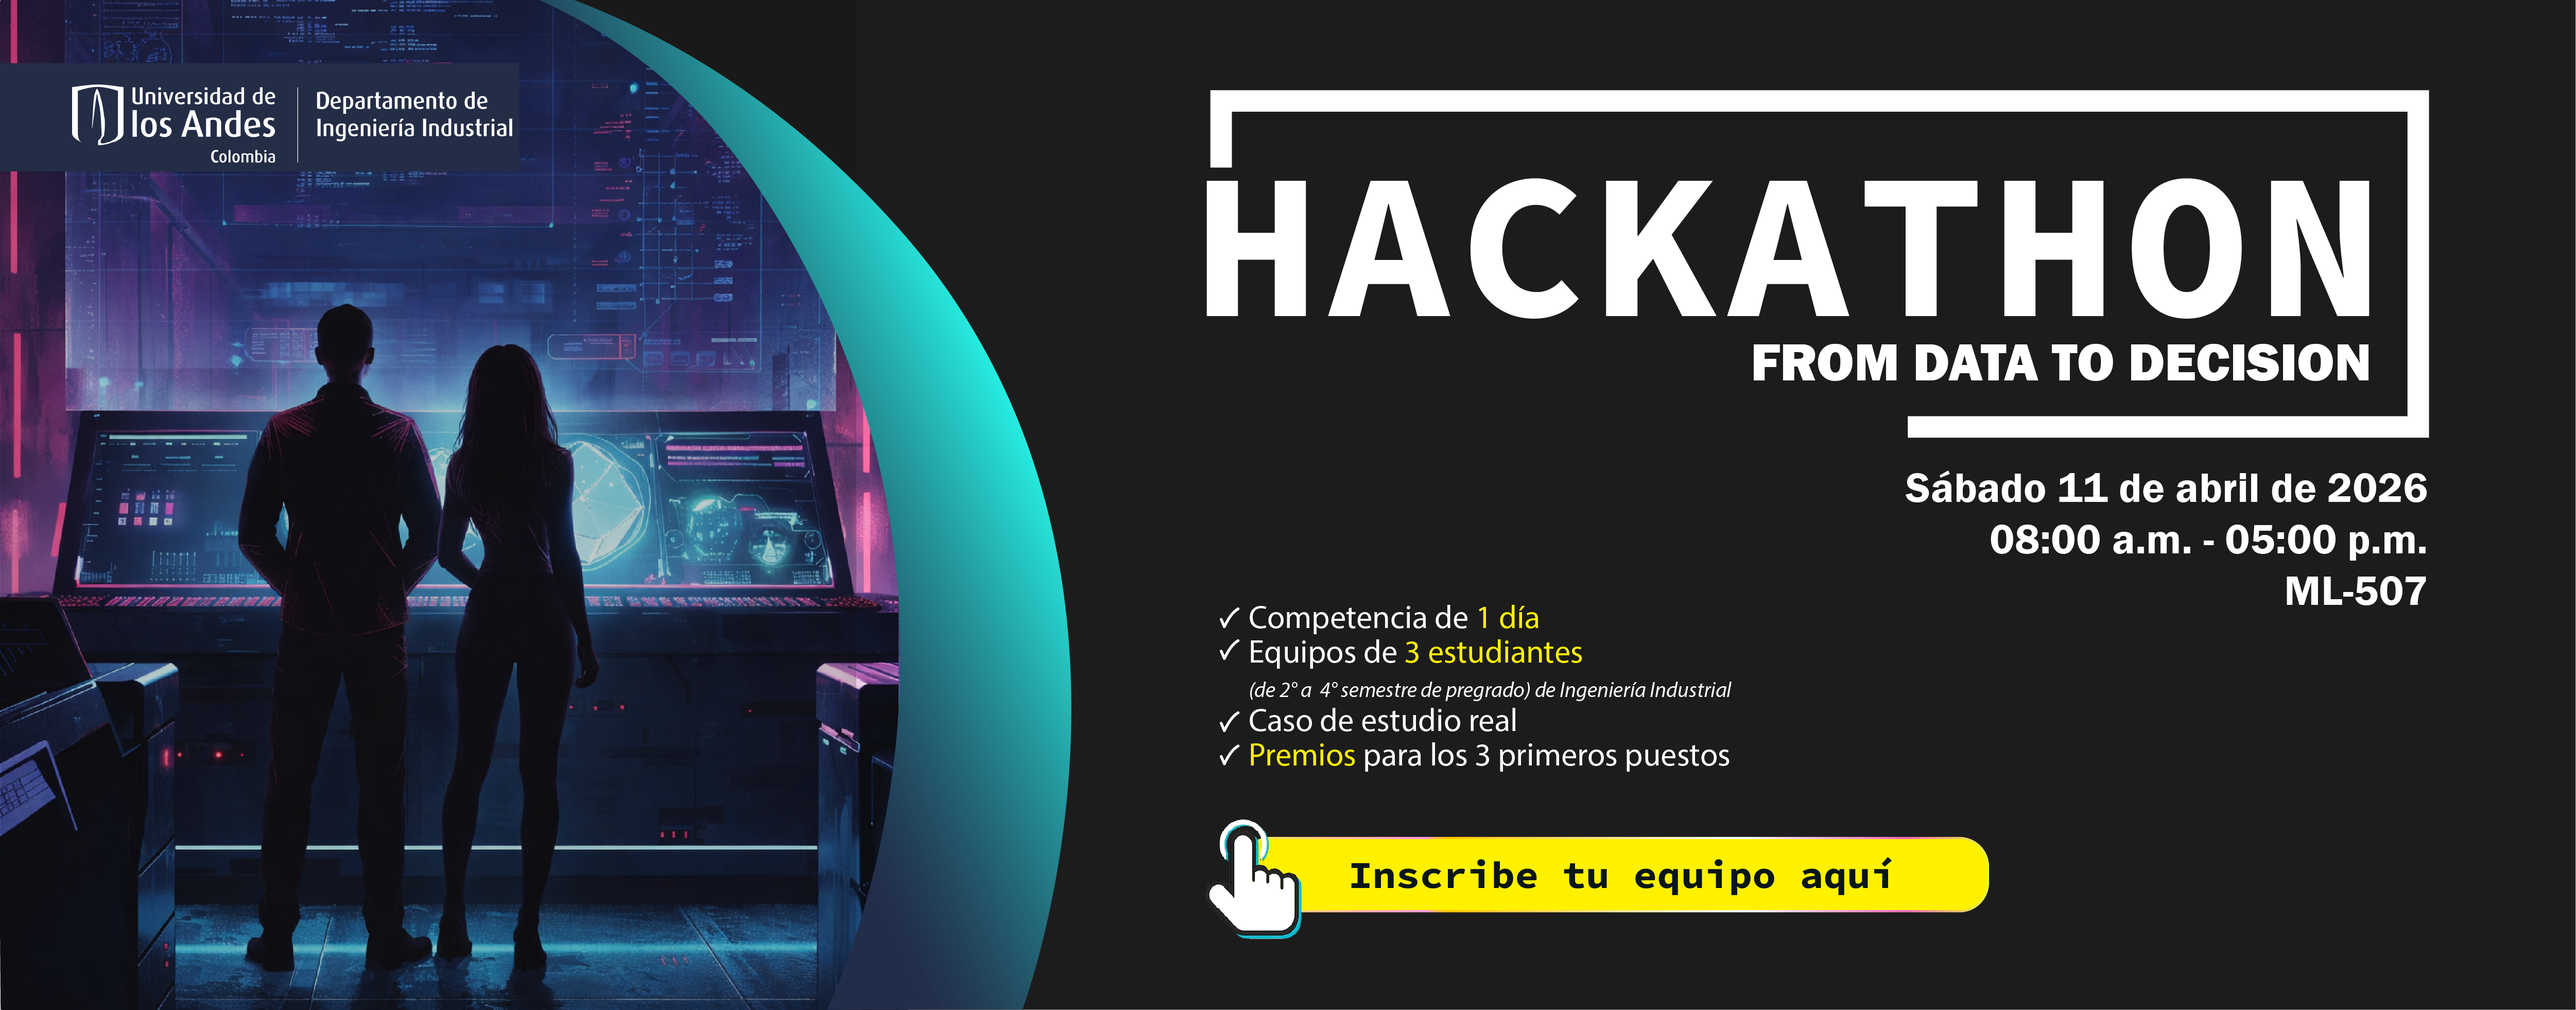
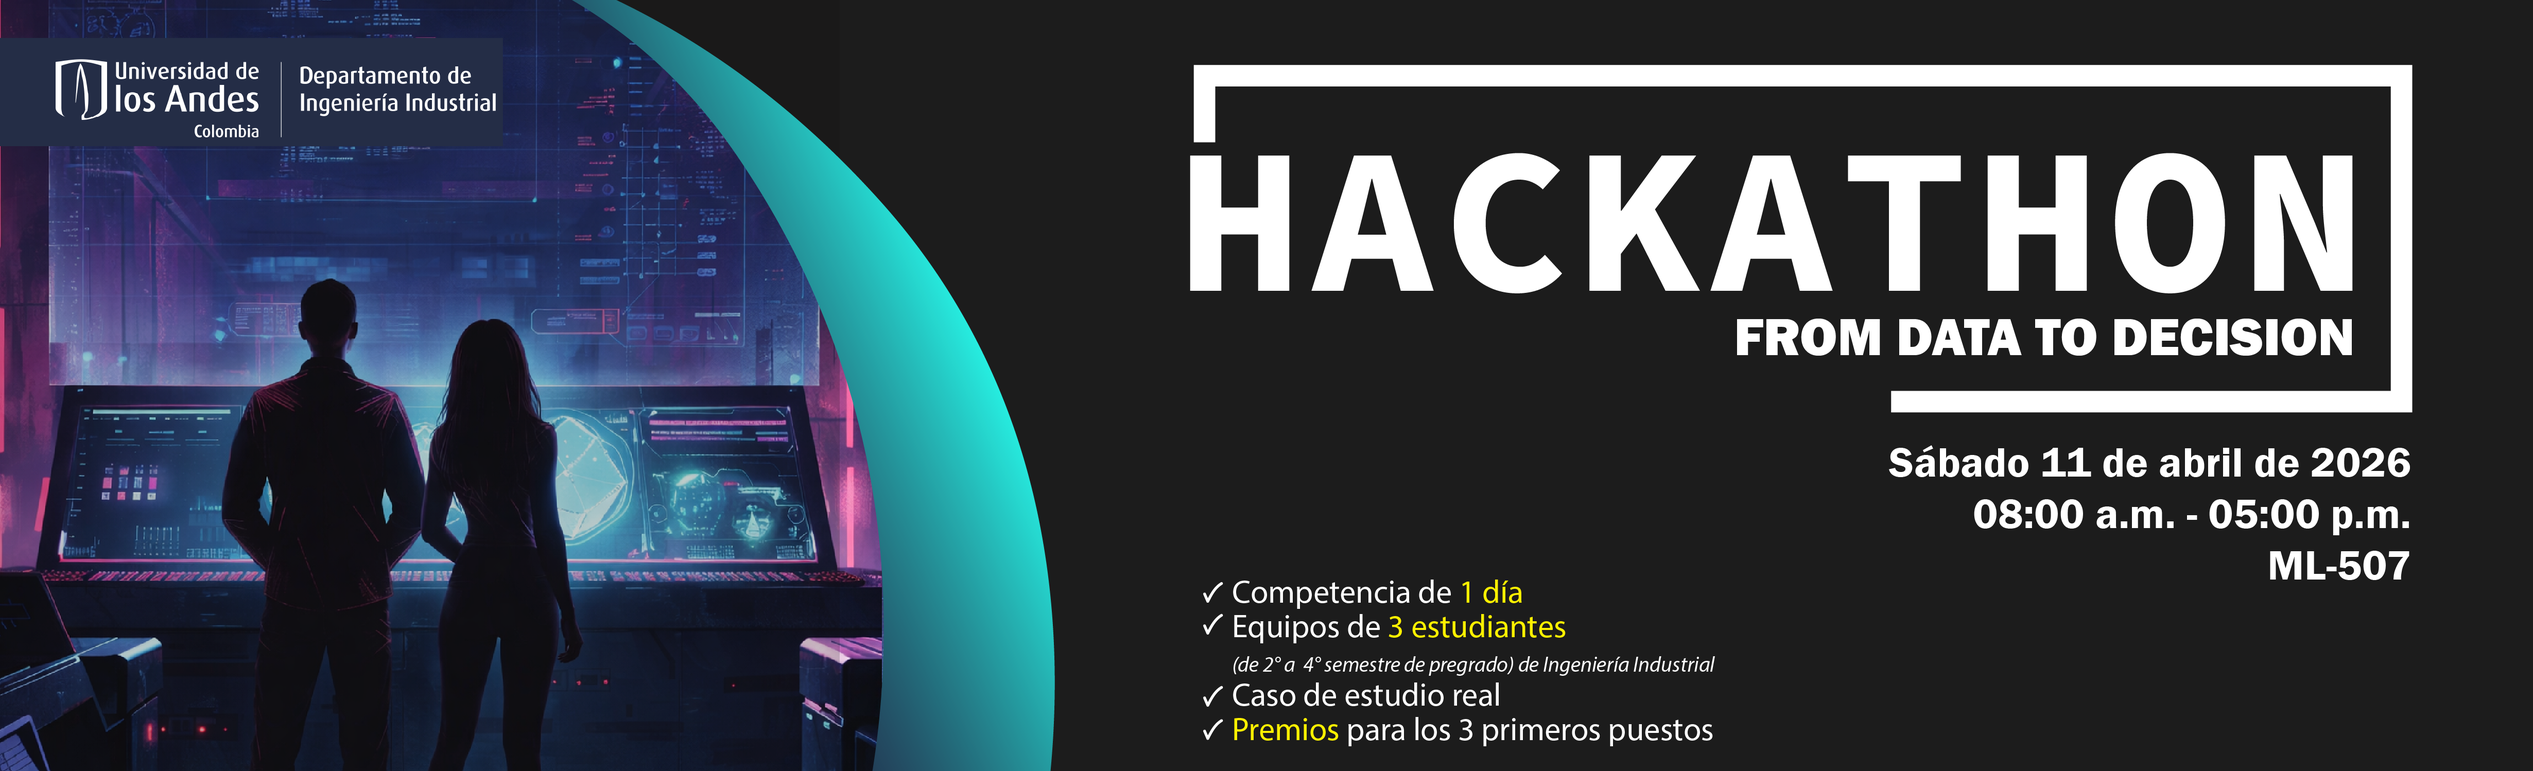
Use cropped images, remove CSS hacks, fix location image

diff --git a/index.html b/index.html
@@ -77,7 +77,7 @@
     .hero-bg {
       position: absolute; inset: 0;
       background-image: url('Imagenes/Hackaton%204%20-%20Banner.png');
-      background-size: 100% auto; background-position: center top;
+      background-size: cover; background-position: center;
       filter: brightness(0.35);
     }
     .hero-overlay {
@@ -202,13 +202,7 @@
       border: 1px solid var(--border);
       box-shadow: 0 0 60px rgba(0,201,184,0.12);
     }
-    .about-img img {
-      width: 100%; display: block;
-      object-fit: cover; object-position: top;
-      max-height: 600px;
-      clip-path: inset(0 0 18% 0);
-      margin-bottom: -18%;
-    }
+    .about-img img { width: 100%; display: block; }
     .cards-grid {
       display: grid; grid-template-columns: 1fr 1fr;
       gap: 16px; margin-top: 32px;
@@ -312,12 +306,7 @@
       border: 1px solid var(--border);
       box-shadow: 0 0 60px rgba(0,201,184,0.1);
     }
-    .location-img img {
-      width: 100%; display: block;
-      object-fit: cover; object-position: top;
-      clip-path: inset(0 0 22% 0);
-      margin-bottom: -22%;
-    }
+    .location-img img { width: 100%; display: block; }
 
     /* ── FAQ ── */
     .faq-list { margin-top: 56px; display: flex; flex-direction: column; gap: 10px; }
@@ -383,7 +372,7 @@
     .register-bg {
       position: absolute; inset: 0;
       background-image: url('Imagenes/Hackaton%201%20-%20Post%20cuadrado.png');
-      background-size: 100% auto; background-position: center top;
+      background-size: cover; background-position: center;
       filter: brightness(0.2);
     }
     .register-overlay {
@@ -743,7 +732,7 @@
         </a>
       </div>
       <div class="location-img">
-        <img src="Imagenes/Hackaton%203%20-%20TV.png" alt="Hackathon From Data to Decision" />
+        <img src="Imagenes/Hackaton%204%20-%20Banner.png" alt="Hackathon From Data to Decision" />
       </div>
     </div>
   </div>
